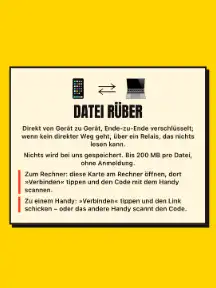
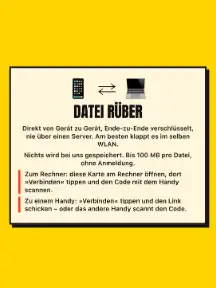
fix(duell-web): Datei rueber nur direkt (Relais-Schalter, Standard aus), Grenze 100 MB
- live.js: optional { direct: true } fuer invite/accept - nur STUN, keine TURN-Server,
  keine Relais-Kandidaten in beide Richtungen; ohne direkten Weg endet es mit "rtc"
- tools.js: Tools.RELAY = false als einziger Schalter, zur Laufzeit window.DailyFlags.toolRelay
- tools-ui.js: nur das Datei-Werkzeug fragt direkt; ohne Weg ehrlicher Satz statt Umweg;
  Kartentext je nach Schalter; Notiz zu zweit und Live-Duelle unveraendert
- MAX_BYTES 100 MB
- Tests: Relais-Schalter (Unit) und beide Zustaende im E2E

Changed region(s): [[0.0833, 0.4375, 0.9167, 0.5625]]

diff --git a/apps/duell-web/test/e2e/tools.e2e.js b/apps/duell-web/test/e2e/tools.e2e.js
@@ -29,8 +29,9 @@ const STUB = (side) => `(() => {
     };
   }
   window.Live = {
-    invite: async () => ({ token: "${TOKEN}", expires: Date.now() + 900000, ready: new Promise((ok) => { window.__toolReady = () => ok(mk()); }) }),
-    accept: async (t) => { if (t !== "${TOKEN}") throw new Error("gone"); const c = mk(); await window.__toolJoined(); return c; }
+    // what the page asked for (direct only or not); window.__toolNoPath: no direct path, the join ends as live.js ends it ("rtc")
+    invite: async (s, o) => { window.__toolOpts = o || {}; return { token: "${TOKEN}", expires: Date.now() + 900000, ready: new Promise((ok, no) => { window.__toolReady = () => ok(mk()); window.__toolFail = () => no(new Error("rtc")); }) }; },
+    accept: async (t, s, o) => { window.__toolOpts = o || {}; if (t !== "${TOKEN}") throw new Error("gone"); if (window.__toolNoPath) throw new Error("rtc"); const c = mk(); await window.__toolJoined(); return c; }
   };
   // what would go to the share sheet
   navigator.share = async (o) => { window.__shared = o; };
@@ -141,8 +142,9 @@ test("Datei rueber: Code am Rechner, Handy verbindet, Annehmen mit Name und Groe
     const W = await wire(A, B);
     await A.locator("#go").click();
     await A.locator(".tlcard").waitFor();
-    assert.match(await text(A, ".tlcard"), /Ende-zu-Ende verschlüsselt; wenn kein direkter Weg geht, über ein Relais, das nichts lesen kann/);
-    assert.match(await text(A, ".tlcard"), /Bis 200 MB pro Datei/);
+    assert.match(await text(A, ".tlcard"), /Ende-zu-Ende verschlüsselt, nie über einen Server/);
+    assert.doesNotMatch(await text(A, ".tlcard"), /Relais/, "Relais aus: kein Wort davon");
+    assert.match(await text(A, ".tlcard"), /Bis 100 MB pro Datei/);
     await snap(A, "datei-1-start");
     await A.locator(".tlov .press").click();
     await A.locator(".tlqr:not([hidden])").waitFor();
@@ -151,10 +153,12 @@ test("Datei rueber: Code am Rechner, Handy verbindet, Annehmen mit Name und Groe
     const qr = jsQR(Uint8ClampedArray.from(px.d), px.w, px.h);
     assert.ok(qr, "QR-Code lesbar"); assert.equal(qr.data, "https://bunsenbrenner.org/duell#tl=" + TOKEN + "&w=datei");
     await snap(A, "datei-2-code");
+    assert.deepEqual(await A.evaluate(() => window.__toolOpts), { direct: true }, "Datei: nur direkt (Relais aus)");
     await B.goto((await G.webUrl("index.html")) + "#" + qr.data.split("#")[1]);
     await A.locator(".tlbadge").waitFor(); await B.locator(".tlbadge").waitFor();
     assert.equal(await text(A, ".tlbadge"), await text(B, ".tlbadge"), "dieselben drei Bilder auf beiden Geraeten");
     assert.equal((await text(A, ".tlbadge")).split(" ").length, 3);
+    assert.deepEqual(await B.evaluate(() => window.__toolOpts), { direct: true }, "auch das beitretende Geraet nur direkt");
 
     // the phone (B) sends to the computer (A): nothing flows before the yes
     const buf = crypto.randomBytes(1536 * 1024 + 321);
@@ -223,6 +227,7 @@ test("Notiz zu zweit: einladen, das andere Geraet tritt bei, beide schreiben auf
     assert.equal(await A.locator(".tlqr").getAttribute("data-url"), "https://bunsenbrenner.org/duell#tl=" + TOKEN + "&w=notiz");
     await B.goto((await G.webUrl("index.html")) + "#tl=" + TOKEN + "&w=notiz");
     await A.locator(".tlon").waitFor(); await B.locator(".tlon").waitFor();
+    assert.deepEqual(await A.evaluate(() => window.__toolOpts), { direct: false }, "Notiz zu zweit: wie bisher"); assert.deepEqual(await B.evaluate(() => window.__toolOpts), { direct: false });
     assert.equal(await text(A, ".tlon"), await text(B, ".tlon"), "dieselben drei Bilder");
     await G.poll(() => B.locator(".tlnotex").inputValue(), (v) => v === "Einkauf:", { what: "der Zettel kommt an" });
     await B.locator(".tlnotex").click(); await B.keyboard.press("End"); await B.keyboard.type(" Milch");
@@ -236,5 +241,34 @@ test("Notiz zu zweit: einladen, das andere Geraet tritt bei, beide schreiben auf
     assert.equal((await A.evaluate(() => JSON.parse(localStorage.getItem("daily.notes"))))[0].x, "Einkauf: Milch");
     assert.deepEqual(ca.out.concat(cb.out), []);
     assert.deepEqual(A.errs.concat(B.errs), []);
+  } finally { await b.close(); }
+});
+
+test("Datei rueber, Relais-Schalter: aus - ohne direkten Weg ehrlich gesagt, kein Umweg; an - Relais erlaubt und so erklaert", { timeout: 120000 }, async () => {
+  const b = await G.launch();
+  try {
+    // off (default): the inviter finds no direct path; the other device too
+    const ca = await device(b, "a"), A = await G.open(ca, "#i=datei-rueber");
+    await A.locator("#go").click(); await A.locator(".tlov .press").click(); await A.locator(".tlqr:not([hidden])").waitFor();
+    assert.deepEqual(await A.evaluate(() => window.__toolOpts), { direct: true });
+    await A.evaluate(() => window.__toolFail());
+    await A.getByText("Keine direkte Verbindung möglich (z. B. Mobilfunk oder Firmennetz). Versucht es im selben WLAN.").waitFor();
+    assert.equal(await A.locator(".tlqr").count(), 0); await A.getByRole("button", { name: "Neu verbinden" }).waitFor();
+    await snap(A, "datei-7-kein-direkter-weg");
+    const cb = await device(b, "b"), B = await cb.newPage(); B.errs = []; B.on("pageerror", (e) => B.errs.push(String(e)));
+    await B.addInitScript(() => { window.__toolNoPath = true; });
+    await B.goto((await G.webUrl("index.html")) + "#tl=" + TOKEN + "&w=datei");
+    await B.getByText("Keine direkte Verbindung möglich (z. B. Mobilfunk oder Firmennetz). Versucht es im selben WLAN.").waitFor();
+    // on (one switch, set before the part runs): the relay may carry the ciphertext, and the card says so
+    const cc = await device(b, "a"); await cc.addInitScript(() => { window.DailyFlags = { toolRelay: true }; });
+    const C2 = await G.open(cc, "#i=datei-rueber");
+    await C2.locator("#go").click();
+    assert.match(await text(C2, ".tlcard"), /wenn kein direkter Weg geht, über ein Relais, das nichts lesen kann/);
+    await C2.locator(".tlov .press").click(); await C2.locator(".tlqr:not([hidden])").waitFor();
+    assert.deepEqual(await C2.evaluate(() => window.__toolOpts), { direct: false });
+    await C2.evaluate(() => window.__toolFail());
+    await C2.getByText("Eure Netze lassen gerade keine Verbindung zu", { exact: false }).waitFor();
+    assert.deepEqual(A.errs.concat(B.errs, C2.errs), []);
+    assert.deepEqual(ca.out.concat(cb.out, cc.out), []);
   } finally { await b.close(); }
 });

diff --git a/apps/duell-web/src/tools-ui.js b/apps/duell-web/src/tools-ui.js
@@ -57,11 +57,13 @@ function qr(cv, text) {
   }).catch(function () {});
 }
 // The inviting device: a QR code (a computer shows it, the phone scans it) and the link to send; then the connection.
+// The file tool asks for a direct path unless the relay is switched on (Tools.relay); the note for two keeps the relay.
+function opts(w) { return { direct: w === "datei" && !T.relay() }; }
 async function host(box, w, shareText, then) {
   var my = gen;
   box.textContent = ""; box.appendChild(el("p", "note tlstate", t("live_making")));
   var inv;
-  try { await window.Parts.need("play"); inv = await window.Live.invite(onState); } catch (e) { if (my === gen) failed(box, e, function () { host(box, w, shareText, then); }); return; }
+  try { await window.Parts.need("play"); inv = await window.Live.invite(onState, opts(w)); } catch (e) { if (my === gen) failed(box, e, function () { host(box, w, shareText, then); }, w); return; }
   if (my !== gen) { inv.ready.then(function (c) { c.close(); }, function () {}); return; }
   mine = inv.token;
   var url = linkOf(inv.token, w), cv = el("canvas", "tlqr"), left = el("p", "livecount", ""), row = el("div", "tlrow");
@@ -75,24 +77,25 @@ async function host(box, w, shareText, then) {
   var tick = setInterval(count, 500); count();
   ticks.push(tick);
   var c;
-  try { c = await inv.ready; } catch (e) { clearInterval(tick); if (my === gen) { mine = null; failed(box, e, function () { host(box, w, shareText, then); }); } return; }
+  try { c = await inv.ready; } catch (e) { clearInterval(tick); if (my === gen) { mine = null; failed(box, e, function () { host(box, w, shareText, then); }, w); } return; }
   clearInterval(tick);
   if (my !== gen) { try { c.close(); } catch (e) {} return; }
   mine = null; Kit.tone(660, 880, 0.14, "triangle", 0.14); Kit.haptic([120, 60, 120]);
   then(c, "a");
 }
 // The other device: it opened the link. My own link on this device is never a join (it would use up the invite).
-async function join(box, token, again, then) {
+async function join(box, token, again, then, w) {
   var my = gen;
   if (mine === token) { box.textContent = ""; box.appendChild(el("p", "lbl", t("tl_ownLink"))); return; }
   box.textContent = ""; box.appendChild(el("p", "lbl tlstate", t("live_connecting")));
   var c;
-  try { await window.Parts.need("play"); c = await window.Live.accept(token, onState); } catch (e) { if (my === gen) failed(box, e, again); return; }
+  try { await window.Parts.need("play"); c = await window.Live.accept(token, onState, opts(w)); } catch (e) { if (my === gen) failed(box, e, again, w); return; }
   if (my !== gen) { try { c.close(); } catch (e) {} return; }
   then(c, "b");
 }
-function failed(box, e, again) {
-  box.textContent = ""; box.appendChild(el("p", "lbl", failText(e)));
+// No direct path for a file (relay off): said as it is, no quiet way round over a server.
+function failed(box, e, again, w) {
+  box.textContent = ""; box.appendChild(el("p", "lbl tlfail", e && e.message === "rtc" && opts(w).direct ? t("tl_noDirect") : failText(e)));
   box.appendChild(btn(t("tl_again"), "btn hot", function () { Kit.sfx.tap(); again(); }));
 }
 // The three pictures both screens show: from both DTLS fingerprints (live.js fp), which differ on the two sides if anyone
@@ -178,7 +181,7 @@ function note(o) {
     });
     row.appendChild(two); row.appendChild(del); P.appendChild(row);
     live.appendChild(el("p", "note", t("tl_twoNote")));
-    if (o.join) { two.disabled = meeting = true; minis(); up(); join(live, o.join, function () { note({}); }, together); o.join = null; }
+    if (o.join) { two.disabled = meeting = true; minis(); up(); join(live, o.join, function () { note({}); }, together, "notiz"); o.join = null; }
   }
   // the two are apart again: the panel as before (a new invite possible), with a word why if the line broke
   function ended(why) { sh = null; meeting = false; panel(); look(); if (why) { live.textContent = ""; live.appendChild(el("p", "lbl", why)); up(); } }
@@ -269,16 +272,16 @@ function file(token) {
     box.textContent = ""; L.main.hidden = false; L.main.disabled = false; L.main.className = "press"; L.why.textContent = "";
     var P = st.p;
     if (P === "idle") {
-      box.appendChild(el("p", "tlicon", "📱 ⇄ 💻")); head(t("tl_file"), t("tl_fileWhat"));
+      box.appendChild(el("p", "tlicon", "📱 ⇄ 💻")); head(t("tl_file"), t(T.relay() ? "tl_fileWhatRelay" : "tl_fileWhat"));
       box.appendChild(el("p", "note", t("tl_fileKeep", { m: mb(T.MAX_BYTES) })));
       box.appendChild(el("p", "note tlhint", t("tl_hintPc"))); box.appendChild(el("p", "note tlhint", t("tl_hintPhone")));
       L.main.textContent = t("tl_connect"); L.main.onclick = function () { Kit.sfx.tap(); st = { p: "host" }; draw(); };
       return;
     }
     if (P === "host" || P === "join") {
-      L.main.hidden = true; box.appendChild(el("p", "note", t("tl_fileWhat")));
+      L.main.hidden = true; box.appendChild(el("p", "note", t(T.relay() ? "tl_fileWhatRelay" : "tl_fileWhat")));
       var b2 = el("div"); box.appendChild(b2);
-      if (P === "host") host(b2, "datei", "tl_fileShare", connected); else join(b2, token, function () { st = { p: "host" }; draw(); }, connected);
+      if (P === "host") host(b2, "datei", "tl_fileShare", connected); else join(b2, token, function () { st = { p: "host" }; draw(); }, connected, "datei");
       st.p = P + "-run"; return;
     }
     if (P === "host-run" || P === "join-run") return;
@@ -290,7 +293,7 @@ function file(token) {
         L.main.textContent = "💾 " + t("tl_save"); L.main.onclick = function () { Kit.sfx.tap(); if (blob) Kit.saveFile(blob, st.n); };
         box.appendChild(btn(t("tl_pick"), "btn", function () { Kit.sfx.tap(); pick.click(); }));
       } else { L.main.textContent = t("tl_pick"); L.main.onclick = function () { Kit.sfx.tap(); pick.click(); }; }
-      L.why.textContent = t("tl_fileWhat");
+      L.why.textContent = t(T.relay() ? "tl_fileWhatRelay" : "tl_fileWhat");
       return;
     }
     if (P === "askIn") {

diff --git a/apps/duell-web/src/live.js b/apps/duell-web/src/live.js
@@ -85,7 +85,17 @@
     }
     throw new Error("timeout");
   }
-  async function connect(w, me, info, token, onState) {
+  // Direct only (o.direct, the file tool while the relay is not approved for files): no TURN server is handed to the
+  // browser, and a relay candidate of the other side is never used. Without a direct path the join ends with "rtc".
+  function directServers(list) {
+    return (list || []).map(function (s) {
+      var u = [].concat(s && s.urls || []).filter(function (x) { return /^stuns?:/i.test(String(x)); });
+      return u.length ? { urls: u } : null;
+    }).filter(Boolean);
+  }
+  function relayCandidate(c) { return / typ relay( |$)/.test(String(c || "")); }
+  async function connect(w, me, info, token, onState, o) {
+    o = o || {};
     var caller = info.role === "caller";
     var at = await call("/attest", { channel: info.channel, role: info.role, token: token, holderPub: me.hp, noisePub: me.np, attestation: attestation(w, info.channel, me) });
     if (at.http !== 200) throw new Error("attest");
@@ -100,9 +110,9 @@
     var ice = await call("/ice?channel=" + info.channel + "&role=" + info.role + "&token=" + encodeURIComponent(token));
     // The server sends STUN plus, as a fallback, a short-lived TURN login: the browser takes the relay only if no direct
     // pair connects. Both players may see each other's IP address; the invite screen says so.
-    var pc = new RTCPeerConnection({ iceServers: ice.iceServers || [] });
+    var pc = new RTCPeerConnection({ iceServers: o.direct ? directServers(ice.iceServers) : ice.iceServers || [] });
     var early = [], haveRemote = false;
-    pc.onicecandidate = function (e) { if (e.candidate) signal(w.encodeSignalIceCandidate(e.candidate.candidate, e.candidate.sdpMid, e.candidate.sdpMLineIndex)); };
+    pc.onicecandidate = function (e) { if (e.candidate && !(o.direct && relayCandidate(e.candidate.candidate))) signal(w.encodeSignalIceCandidate(e.candidate.candidate, e.candidate.sdpMid, e.candidate.sdpMLineIndex)); };
     var dcReady = new Promise(function (ok) {
       function use(dc) { dc.onopen = function () { ok(dc); }; if (dc.readyState === "open") ok(dc); }
       if (caller) use(pc.createDataChannel("game", { ordered: true })); else pc.ondatachannel = function (e) { use(e.channel); };
@@ -113,6 +123,7 @@
           var m = w.decodeSignalMessage(nt.decrypt(await framed(s, 15 * 60000)));
           if (m.kind === "offer") { await pc.setRemoteDescription({ type: "offer", sdp: m.sdp }); haveRemote = true; var an = await pc.createAnswer(); await pc.setLocalDescription(an); signal(w.encodeSignalAnswer(an.sdp)); }
           else if (m.kind === "answer") { await pc.setRemoteDescription({ type: "answer", sdp: m.sdp }); haveRemote = true; }
+          else if (m.kind === "ice-candidate" && o.direct && relayCandidate(m.candidate)) continue;
           else if (m.kind === "ice-candidate") { var c = { candidate: m.candidate, sdpMid: m.sdpMid, sdpMLineIndex: m.sdpMlineIndex }; if (haveRemote) pc.addIceCandidate(c).catch(function () {}); else early.push(c); }
           if (haveRemote && early.length) early.splice(0).forEach(function (c) { pc.addIceCandidate(c).catch(function () {}); });
         }
@@ -146,7 +157,7 @@
     };
   }
   // Inviter: returns the token at once; the connection follows when the friend opens the link.
-  async function invite(onState) {
+  async function invite(onState, o) {
     var w = await load(), me = ids(w), o = await call("/open", { holderPub: me.hp, noisePub: me.np });
     if (o.http !== 200 || !o.token) throw new Error(o.code || "open");
     var token = o.token;
@@ -155,18 +166,18 @@
       while (Date.now() < until) {
         var st = await call("/status?token=" + encodeURIComponent(token));
         if (st.http === 404) throw new Error("gone");
-        if (st.state === "joined") { onState("found", st.channel); return connect(w, me, st, token, onState); }
+        if (st.state === "joined") { onState("found", st.channel); return connect(w, me, st, token, onState, o); }
         await sleep(3000);
       }
       throw new Error("expired");
     })();
     return { token: token, expires: Date.now() + WAIT_MS, ready: ready };
   }
-  async function accept(token, onState) {
+  async function accept(token, onState, o) {
     var w = await load(), me = ids(w), j = await call("/join", { token: token, holderPub: me.hp, noisePub: me.np });
     if (j.http !== 200) throw new Error(j.code || "join");
     onState("found", j.channel);
-    return connect(w, me, j, token, onState);
+    return connect(w, me, j, token, onState, o);
   }
-  if (!root.Live) root.Live = { invite: invite, accept: accept, load: load, WC: WC };   // a stand-in set before (browser tests) stays
+  if (!root.Live) root.Live = { invite: invite, accept: accept, load: load, WC: WC, directServers: directServers, relayCandidate: relayCandidate };   // a stand-in set before (browser tests) stays
 })(typeof globalThis !== "undefined" ? globalThis : this);

diff --git a/apps/duell-web/test/tools.test.js b/apps/duell-web/test/tools.test.js
@@ -158,7 +158,7 @@ test("Datei: Groessengrenze beim Sender und beim Empfaenger; mehr Bytes als ange
   a.T.send(file(800, "gross.bin").f);
   await until(() => ev(a, "no").length);
   assert.equal(ev(a, "no")[0].why, "big"); assert.deepEqual(ev(b, "big")[0], { e: "big", n: "gross.bin", s: 800 }); assert.equal(a.bins, 0);
-  assert.equal(T.MAX_BYTES, 200e6); assert.equal(T.size(T.MAX_BYTES, "de"), "200 MB");
+  assert.equal(T.MAX_BYTES, 100e6); assert.equal(T.size(T.MAX_BYTES, "de"), "100 MB");
   // a sender that lies about the size: the receiver stops at the first byte too many
   const [c, d] = pair();
   c.ch.send({ t: "f-offer", id: "a9", n: "x", s: 10 }); await until(() => ev(d, "offer").length); d.T.accept();
@@ -198,4 +198,19 @@ test("Dateiname und Groesse: ohne Ordner und Steuerzeichen, wie Menschen sie les
   assert.equal(T.cleanName("a\u202egnp.exe"), "agnp.exe", "keine Richtungszeichen, die eine Endung verstecken");
   assert.equal(Array.from(T.cleanName("x".repeat(300))).length, 120);
   assert.equal(T.size(830, "de"), "830 B"); assert.equal(T.size(12345678, "de"), "12,3 MB"); assert.equal(T.size(12345678, "en"), "12.3 MB"); assert.equal(T.size(209715200, "en"), "210 MB");
+});
+
+test("Relais-Schalter: aus als Vorgabe; nur die Dateiverbindung ohne TURN, fremde Relais-Kandidaten werden nie benutzt", () => {
+  assert.equal(T.RELAY, false);
+  assert.equal(T.relay({}), false); assert.equal(T.relay({ toolRelay: true }), true); assert.equal(T.relay({ toolRelay: "ja" }), false);
+  delete globalThis.Live; require("../src/live.js"); const L = globalThis.Live;
+  assert.deepEqual(L.directServers([{ urls: ["stun:a.example:3478", "turn:a.example:3478?transport=udp"], username: "u", credential: "c" }, { urls: "turns:b.example:5349", username: "u", credential: "c" }, { urls: "stun:c.example" }]),
+    [{ urls: ["stun:a.example:3478"] }, { urls: ["stun:c.example"] }], "kein TURN, keine Zugangsdaten");
+  assert.equal(L.directServers(undefined).length, 0);
+  assert.equal(L.relayCandidate("candidate:1 1 udp 41885439 203.0.113.5 3478 typ relay raddr 0.0.0.0 rport 0"), true);
+  assert.equal(L.relayCandidate("candidate:2 1 udp 1677729535 198.51.100.7 51000 typ srflx raddr 10.0.0.2 rport 51000"), false);
+  assert.equal(L.relayCandidate("candidate:3 1 udp 2122260223 192.168.1.4 51000 typ host"), false);
+  // the switch reaches only the file tool: live.js keeps its old calls (no third argument) for games and the note for two
+  const ui = require("node:fs").readFileSync(require.resolve("../src/tools-ui.js"), "utf8");
+  assert.match(ui, /function opts\(w\) \{ return \{ direct: w === "datei" && !T\.relay\(\) \}; \}/);
 });

diff --git a/apps/duell-web/src/tools.js b/apps/duell-web/src/tools.js
@@ -113,7 +113,7 @@
   // over the Noise channel of the ct-agent): the receiver says yes to name and size before a single byte flows; the bytes go
   // in pieces of CHUNK as the channel's buffer allows (HIGH, LOW: bufferedAmount); the receiver reports what really
   // arrived (ACK) for the sender's bar; at the end both compare SHA-256 over the whole file. Either side can stop.
-  var CHUNK = 16384, BLOCK = 262144, HIGH = 1048576, LOW = 262144, ACK = 262144, MAX_BYTES = 200000000;   // 200 MB as the phones count them
+  var CHUNK = 16384, BLOCK = 262144, HIGH = 1048576, LOW = 262144, ACK = 262144, MAX_BYTES = 100000000;   // 100 MB as the phones count them: the receiver holds the file in memory until it is saved
   // A name as the other device may show and save it: no folders, no control or reserved characters, at most 120 characters.
   function cleanName(n) {
     var s = String(n == null ? "" : n).split(/[\\/]/).pop().replace(/[\u0000-\u001f\u007f<>:"|?*\u2028\u2029\u202a-\u202e\u2066-\u2069]/g, "").replace(/^[.\s]+|\s+$/g, "");
@@ -232,6 +232,11 @@
     return api;
   }
 
+  // The one switch for the TURN relay in the file tool (the note for two and the live games are not affected): off, a
+  // file goes only on a direct path between the two devices, never over a server, not even as ciphertext. A build or the
+  // server may turn it on at runtime with window.DailyFlags = { toolRelay: true } before the part runs.
+  var RELAY = false;
+  function relay(flags) { var f = flags || root.DailyFlags; return f && typeof f.toolRelay === "boolean" ? f.toolRelay : RELAY; }
   // Sizes as people read them: "830 B", "12,3 MB" (de) / "12.3 MB" (en); decimal units like the phones show them.
   function size(b, lang) {
     var u = ["B", "KB", "MB", "GB"], i = 0, v = b;
@@ -242,7 +247,7 @@
 
   var api = {
     sha256: sha256, COLORS: COLORS, STICKERS: STICKERS, MAX_NOTE: MAX_NOTE, cleanNote: cleanNote, noteCode: noteCode, noteFrom: noteFrom, noteFits: noteFits, noteLoad: noteLoad,
-    shared: shared, transfer: transfer, cleanName: cleanName, size: size, CHUNK: CHUNK, HIGH: HIGH, LOW: LOW, ACK: ACK, MAX_BYTES: MAX_BYTES
+    shared: shared, transfer: transfer, RELAY: RELAY, relay: relay, cleanName: cleanName, size: size, CHUNK: CHUNK, HIGH: HIGH, LOW: LOW, ACK: ACK, MAX_BYTES: MAX_BYTES
   };
   if (typeof module !== "undefined" && module.exports) module.exports = api;
   else root.Tools = api;
